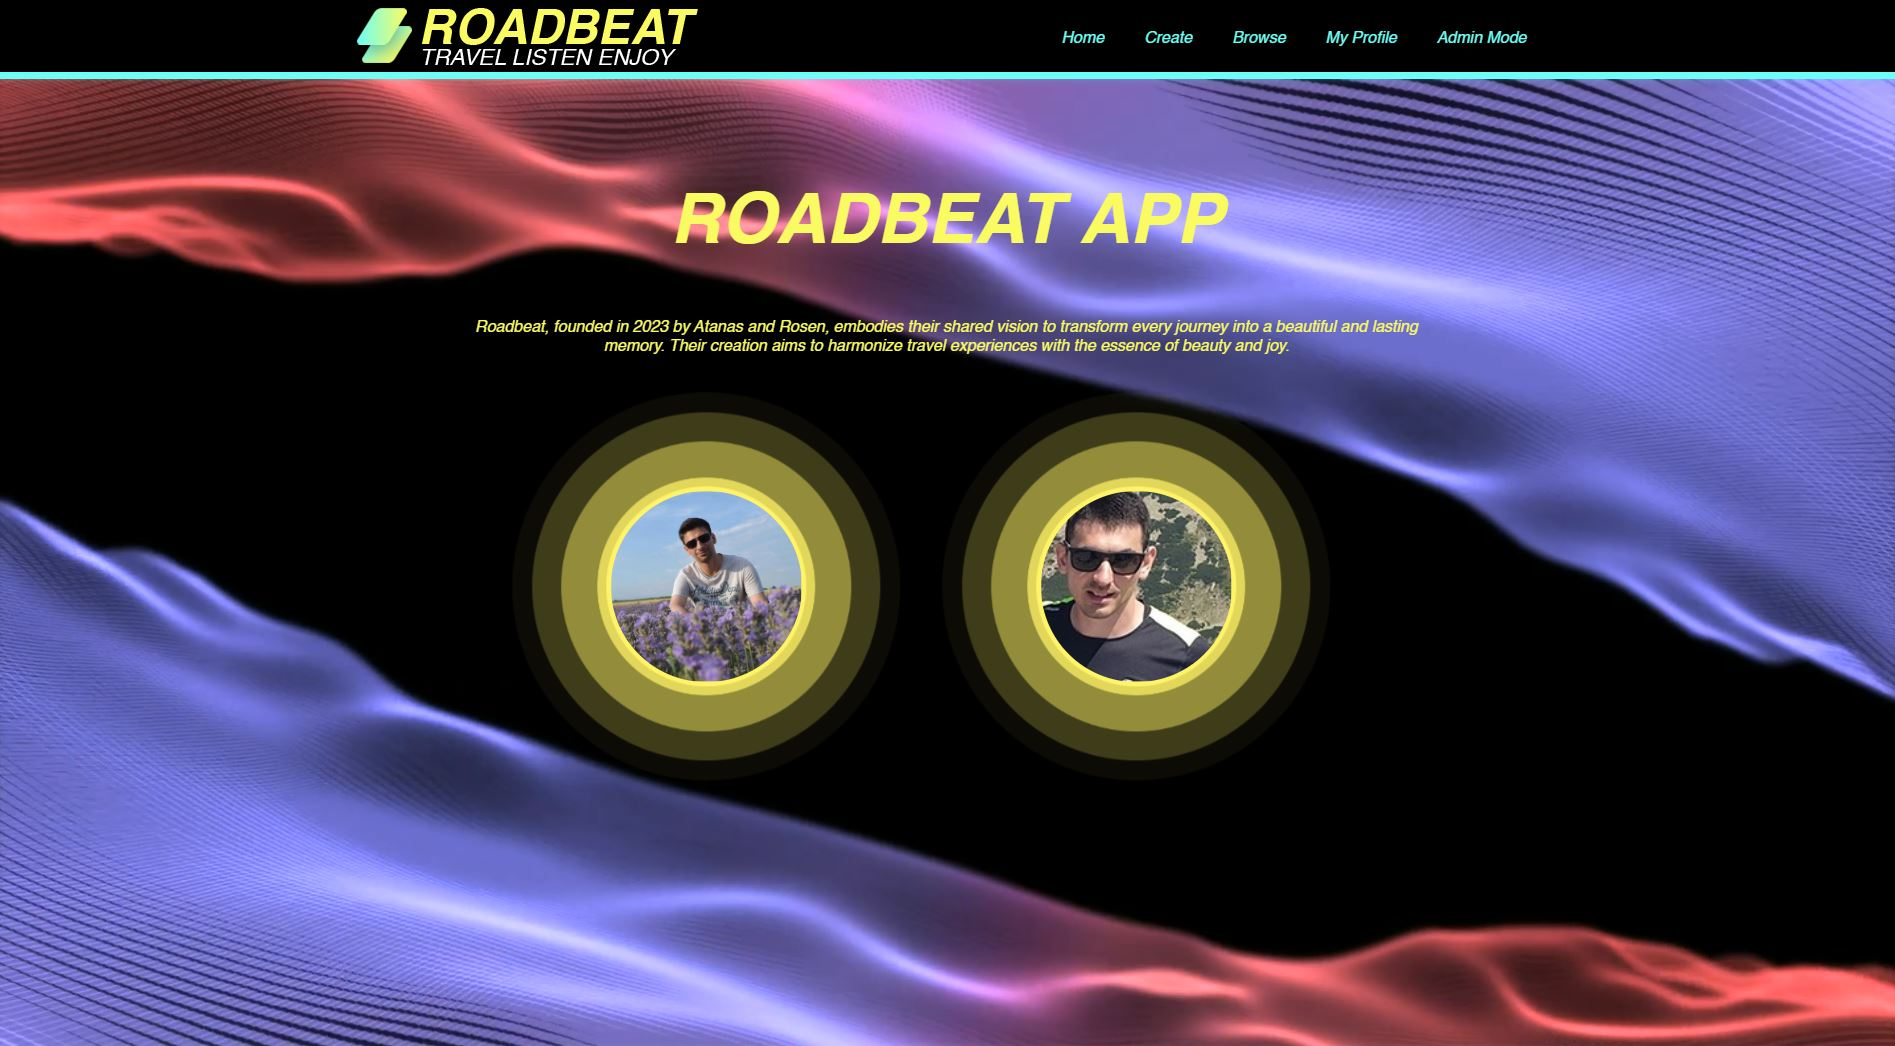
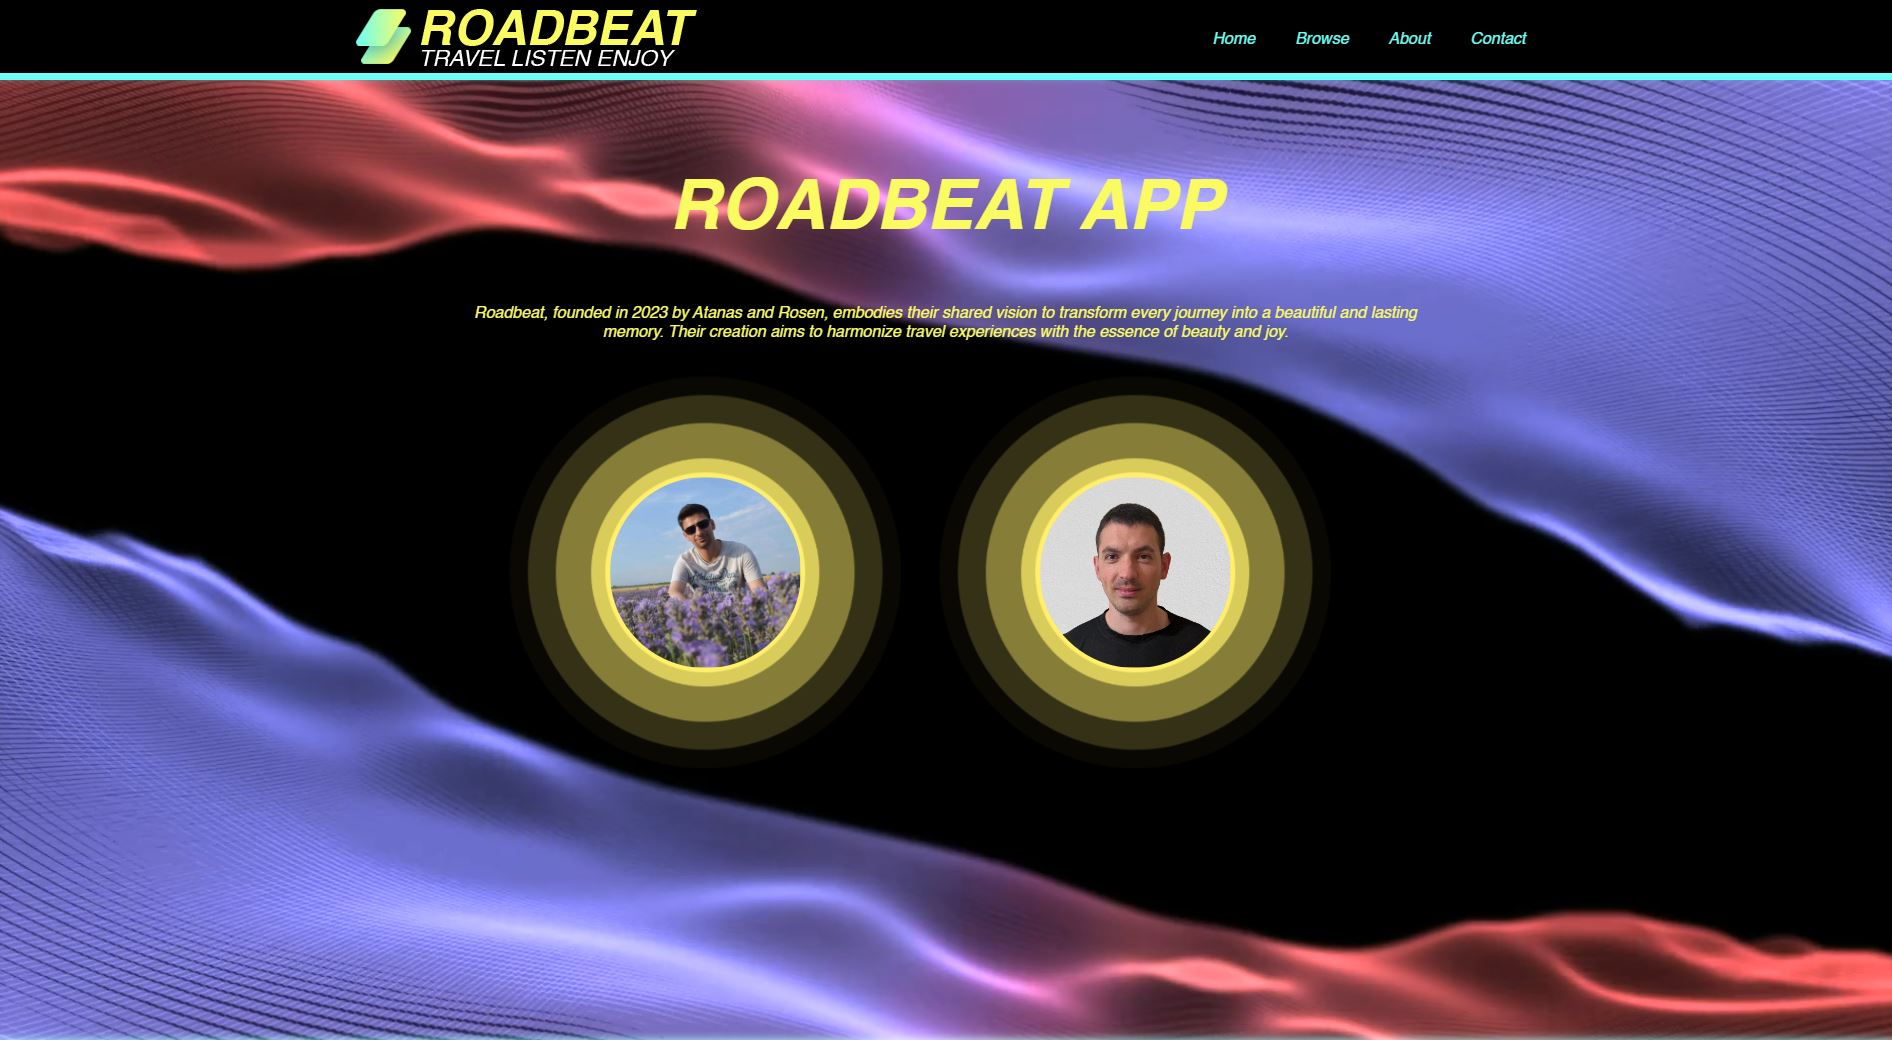
Update_About

diff --git a/RidePal/src/main/resources/templates/About.html b/RidePal/src/main/resources/templates/About.html
@@ -23,7 +23,7 @@
                             </div>
                         </div>
                         <div class="about-desc-profiles-info">
-                            <img th:src="@{/img/Rosen.jpg}" src="../static/img/Rosen.jpg" alt="Atanas">
+                            <img th:src="@{/img/Rosen.png}" src="../static/img/Rosen.jpg" alt="Atanas">
                             <div class="about-desc-profiles-info-pictures">
                                 <div class="about-desc-profiles-info-pictures-pulse">
                                     <span style="--i:0"></span>
